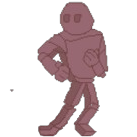
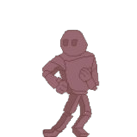
ASD

diff --git a/Elementals/scripts1.js b/Elementals/scripts1.js
@@ -1223,7 +1223,7 @@ let fireanimation1 = ["pics/animations/fireR1.png", "pics/animations/fireR2.png"
     firedmg1 = "pics/animations/redfireR.png";
 let wateranimation1 = ["pics/animations/waterR1.png", "pics/animations/waterR2.png"],
     waterdmg1 = "pics/animations/redwaterR.png";
-let earthanimation1 = ["pics/animations/earthR1.png"],
+let earthanimation1 = ["pics/animations/earthR1.png", "pics/animations/earthR2.png"],
     earthdmg1 = "pics/animations/redearthR.png";
 let windanimation1 = ["pics/animations/windR1.png", "pics/animations/windR2.png"],
     winddmg1 = "pics/animations/redwindR.png";
@@ -1234,7 +1234,7 @@ let fireanimation2 = ["pics/animations/fireL1.png", "pics/animations/fireL2.png"
     firedmg2 = "pics/animations/redfireL.png";
 let wateranimation2 = ["pics/animations/waterL1.png", "pics/animations/waterL2.png"],
     waterdmg2 = "pics/animations/redwaterL.png";
-let earthanimation2 = ["pics/animations/earthL1.png"],
+let earthanimation2 = ["pics/animations/earthL1.png", "pics/animations/earthL2.png"],
     earthdmg2 = "pics/animations/redearthL.png";
 let windanimation2 = ["pics/animations/windL1.png", "pics/animations/windL2.png"],
     winddmg2 = "pics/animations/redwindL.png";
